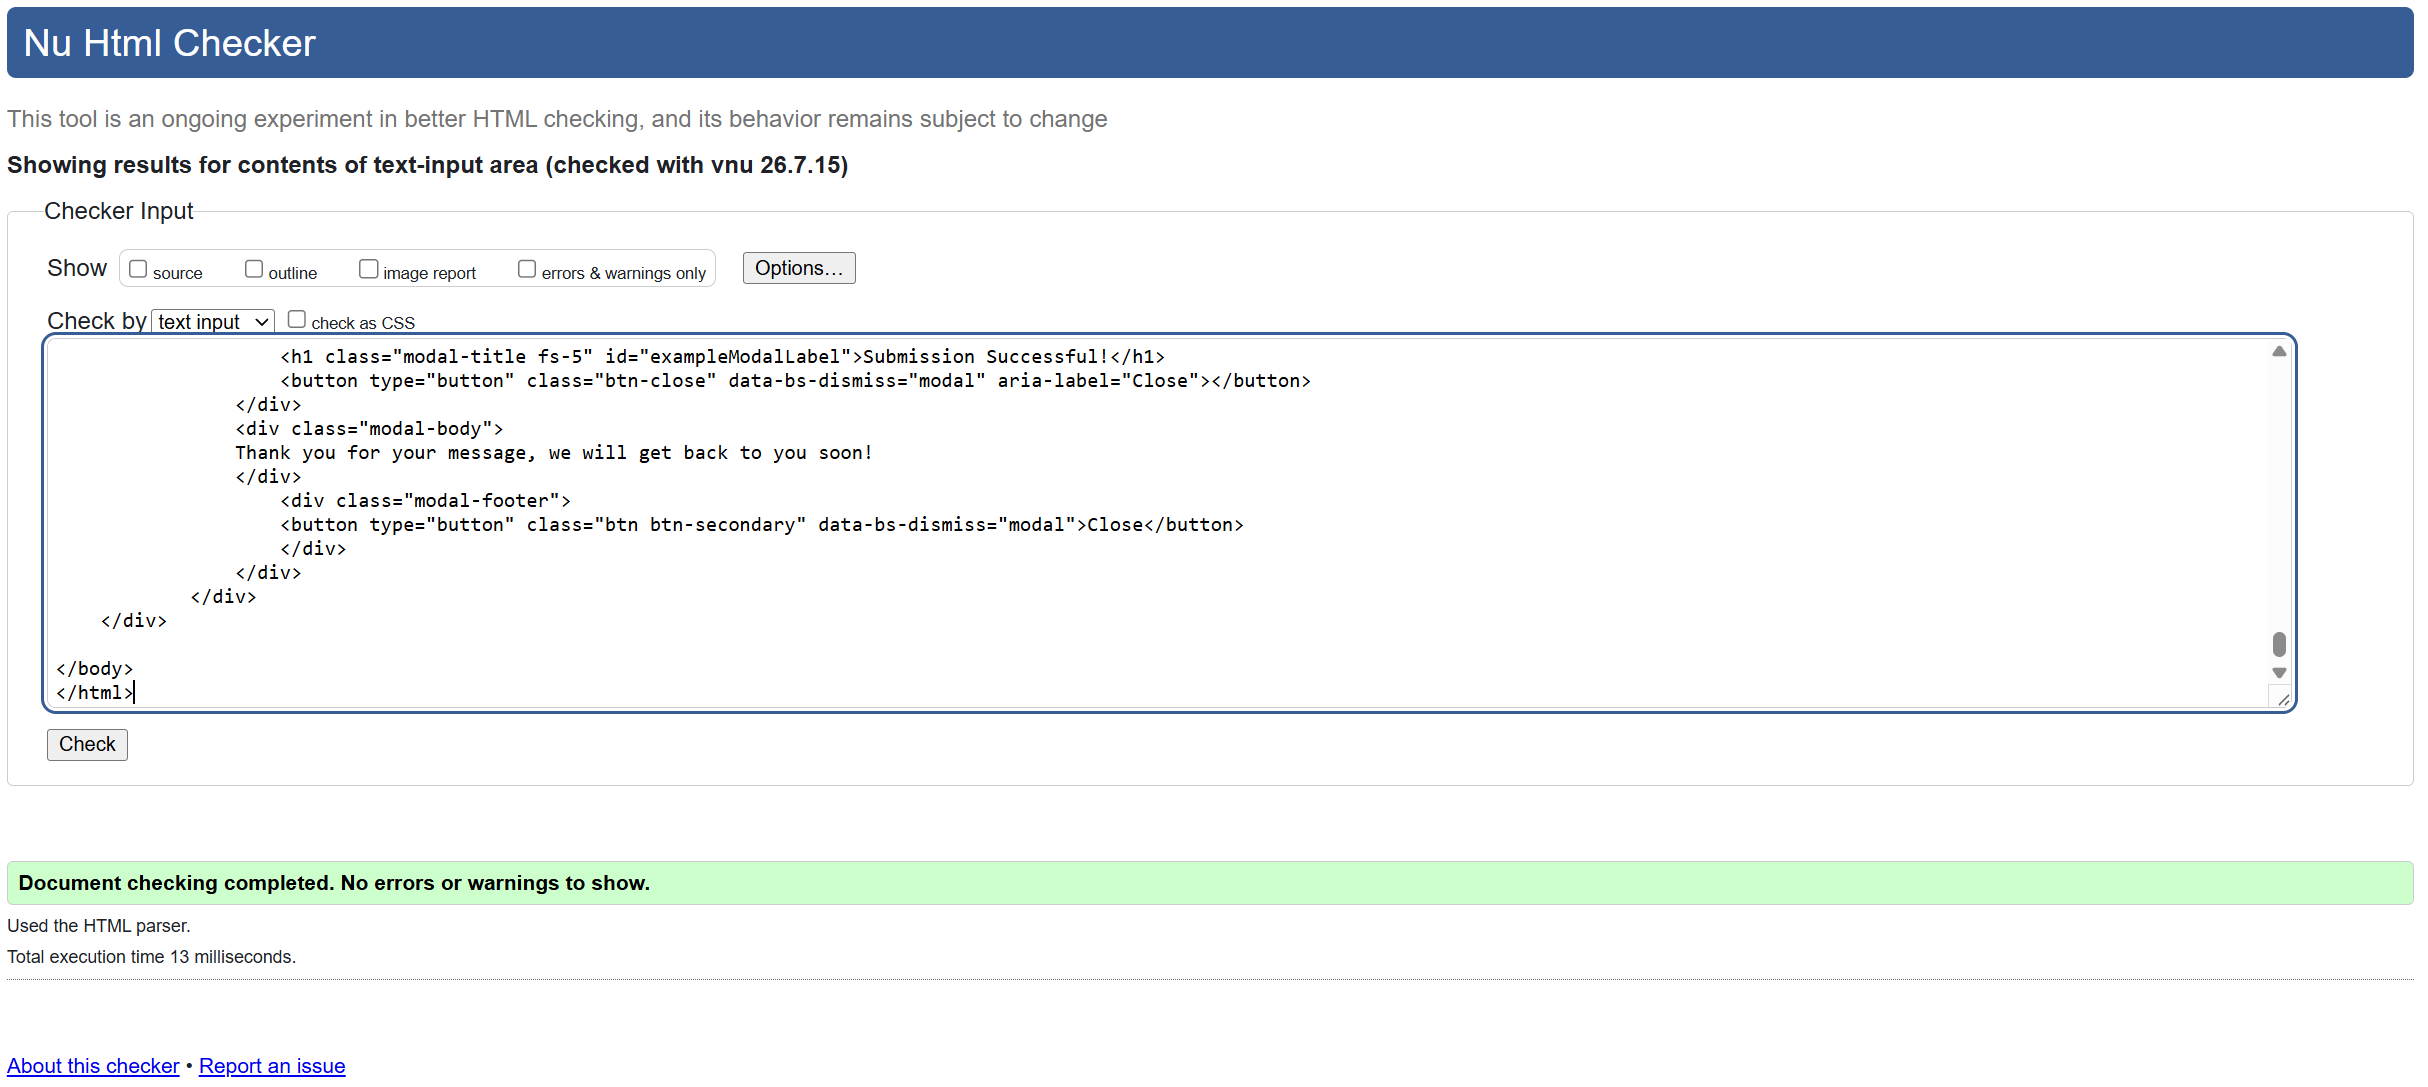
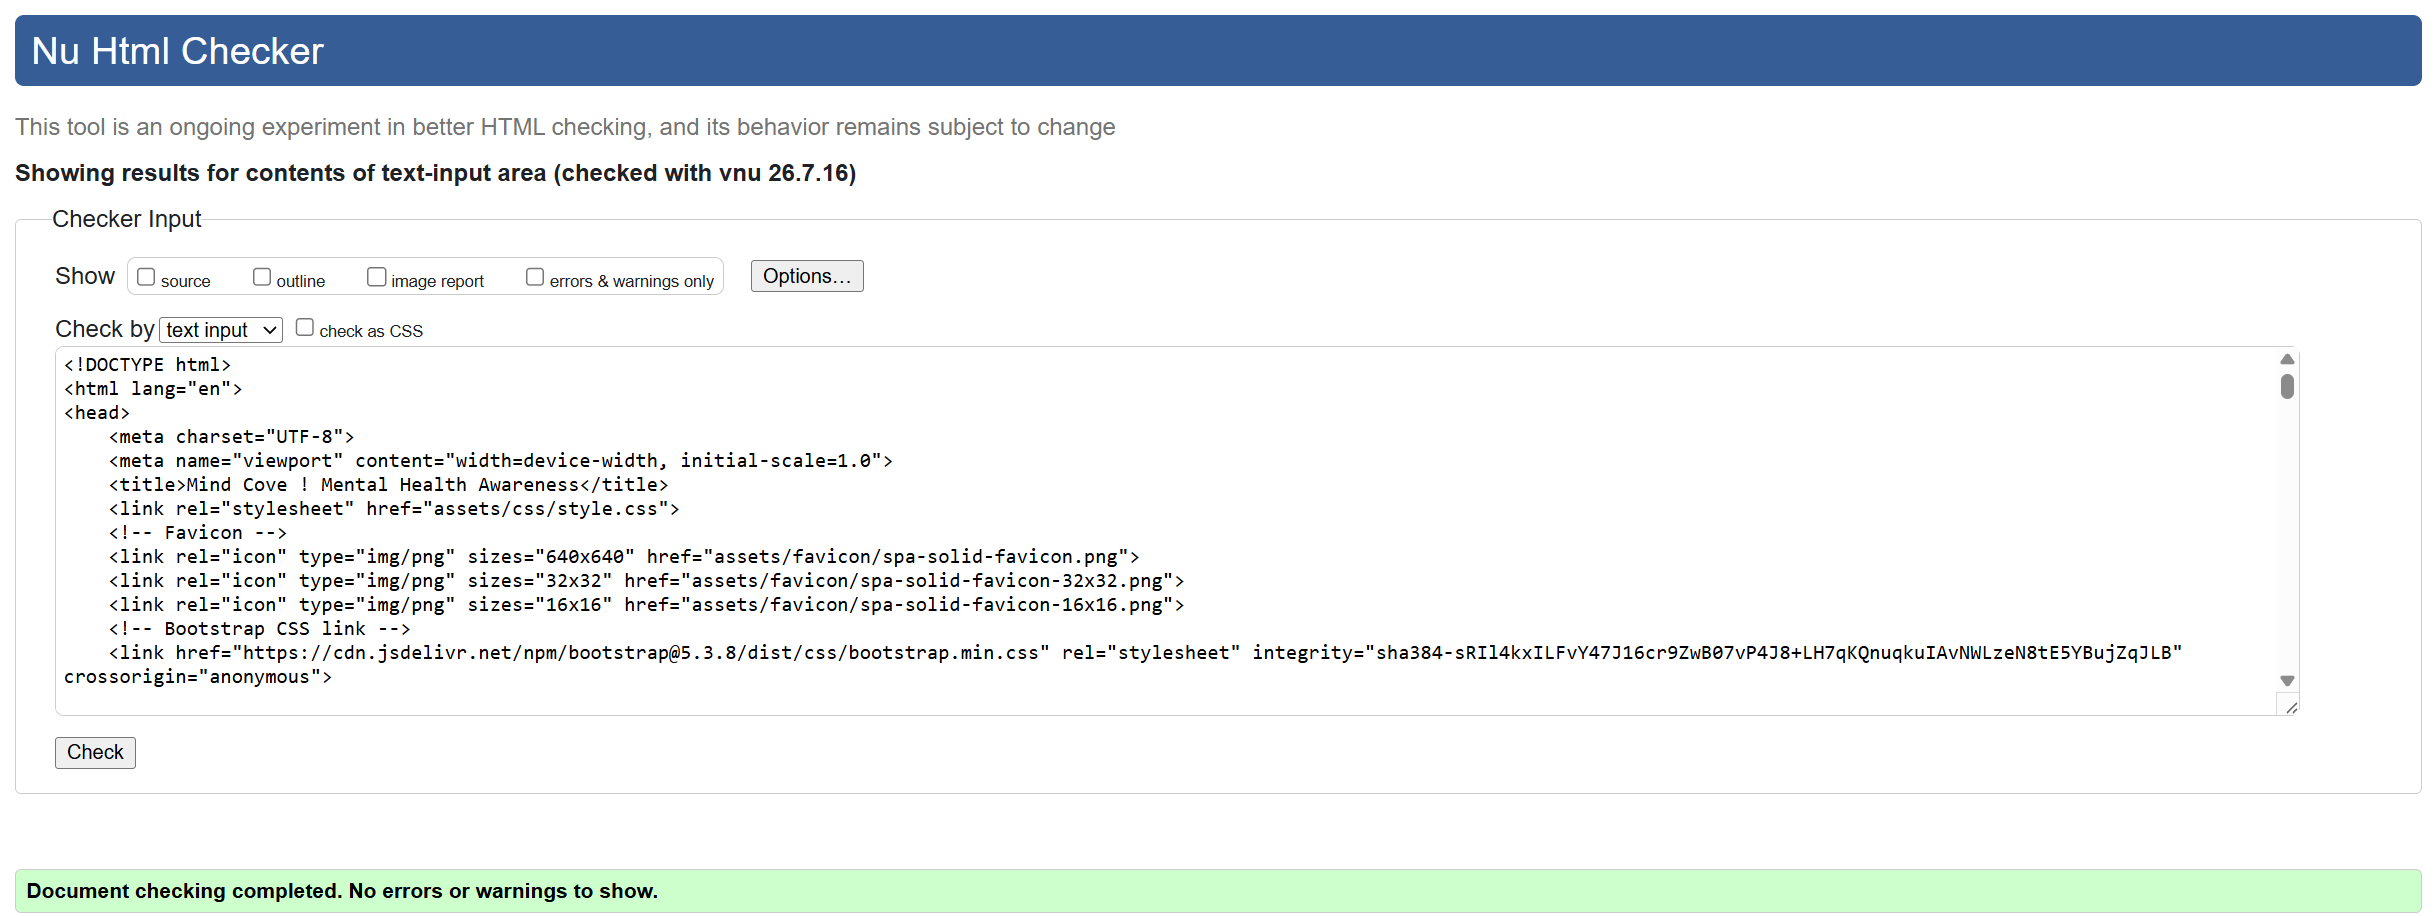
Correct rel changed in all links and added Credits in README.md

diff --git a/index.html b/index.html
@@ -6,7 +6,7 @@
     <title>Mind Cove ! Mental Health Awareness</title>
     <link rel="stylesheet" href="assets/css/style.css">
     <!-- Favicon -->
-    <link rel="spa-solid-favicon" sizes="640x640" href="assets/favicon/spa-solid-favicon.png">
+    <link rel="icon" type="img/png" sizes="640x640" href="assets/favicon/spa-solid-favicon.png">
     <link rel="icon" type="img/png" sizes="32x32" href="assets/favicon/spa-solid-favicon-32x32.png">
     <link rel="icon" type="img/png" sizes="16x16" href="assets/favicon/spa-solid-favicon-16x16.png">
     <!-- Bootstrap CSS link -->
@@ -178,11 +178,11 @@
                 </div>
                 <div class="col-12 col-xl-6">
                     <p><strong>NHS & Professional Support:</strong></p>
-                    <p>NHS Talking Therapies: <a class="link-opacity-75-hover custom-link-color" href="https://www.nhs.uk/nhs-services/mental-health-services/" target="_blank">NHS Mental Health Services</a></p>
+                    <p>NHS Talking Therapies: <a class="link-opacity-75-hover custom-link-color" href="https://www.nhs.uk/nhs-services/mental-health-services/" target="_blank" rel="noopener noreferrer">NHS Mental Health Services</a></p>
                     <p>Your GP: Contact your local doctor</p>
                     <p><strong>Non-Profit Charities and Communities:</strong></p>
-                    <p>Mind: <a class="link-opacity-75-hover custom-link-color" href="https://www.mind.org.uk/" target="_blank" rel="noopener noreferer">Website</a></p>
-                    <p>Rethink Mental Illness: <a class="link-opacity-75-hover custom-link-color" href="https://www.rethink.org/" target="_blank" rel="noopener noreferer">Website</a></p>
+                    <p>Mind: <a class="link-opacity-75-hover custom-link-color" href="https://www.mind.org.uk/" target="_blank" rel="noopener noreferrer">Website</a></p>
+                    <p>Rethink Mental Illness: <a class="link-opacity-75-hover custom-link-color" href="https://www.rethink.org/" target="_blank" rel="noopener noreferrer">Website</a></p>
                     <p>Togetherall:  Provides a safe, anonymous 24/7 online community moderated by professionals. You can often access this for free via your university, employer, or local NHS.</p>
                 </div>
                 <div class="col-12 col-xl-6">
@@ -280,9 +280,9 @@
             <div class="col-12 text-center">
                 <p id="follow" class=""><strong>Follow us on our social media.</strong></p>
                 <div id="social-networks">
-                    <a href="https://www.facebook.com/" target="_blank" rel="noopener noreferer" aria-label="Visit our Facebook page (opens in a new tab)"><i class="fa-brands fa-facebook"></i></a>
-                    <a href="https://www.twitter.com/" target="_blank" rel="noopener noreferer" aria-label="Visit our Twitter page (opens in a new tab)"><i class="fa-brands fa-twitter"></i></a>
-                    <a href="https://www.instagram.com/" target="_blank" rel="noopener noreferer" aria-label="Visit our Instagram page (opens in a new tab)"><i class="fa-brands fa-instagram"></i></a>
+                    <a href="https://www.facebook.com/" target="_blank" rel="noopener noreferrer" aria-label="Visit our Facebook page (opens in a new tab)"><i class="fa-brands fa-facebook"></i></a>
+                    <a href="https://www.twitter.com/" target="_blank" rel="noopener noreferrer" aria-label="Visit our Twitter page (opens in a new tab)"><i class="fa-brands fa-twitter"></i></a>
+                    <a href="https://www.instagram.com/" target="_blank" rel="noopener noreferrer" aria-label="Visit our Instagram page (opens in a new tab)"><i class="fa-brands fa-instagram"></i></a>
                 </div>
 
                 <div class="col-12 text-center">